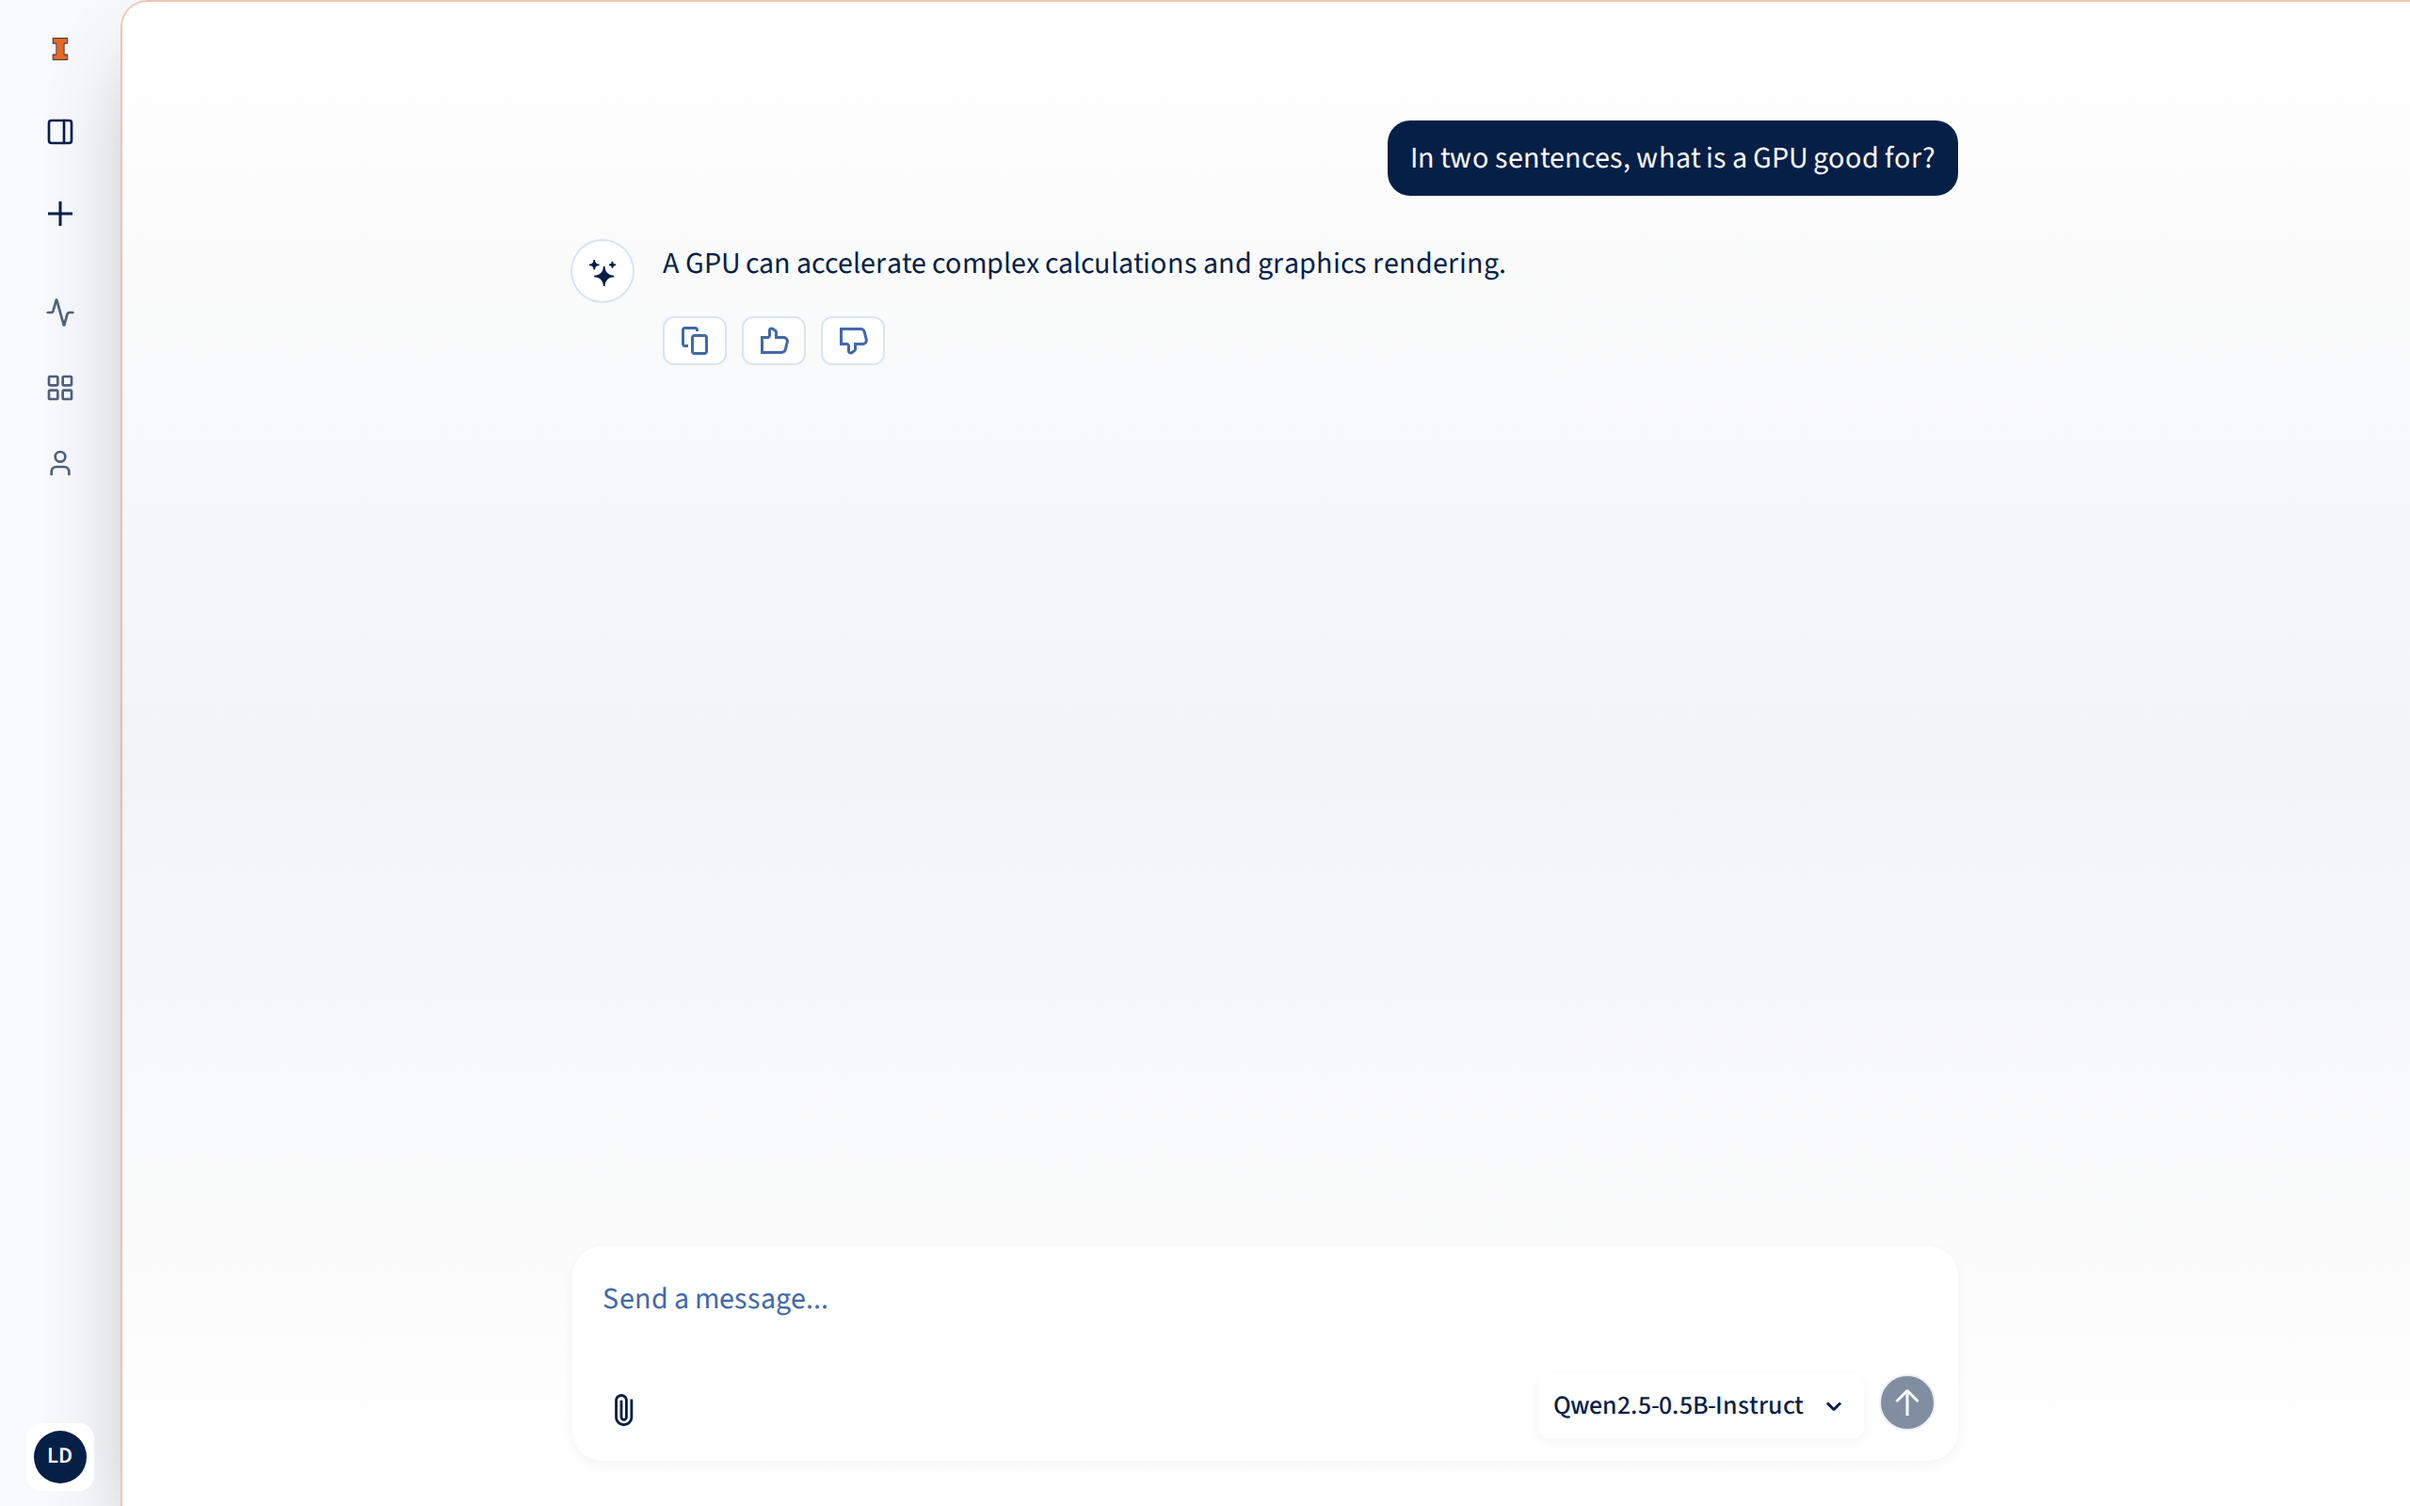
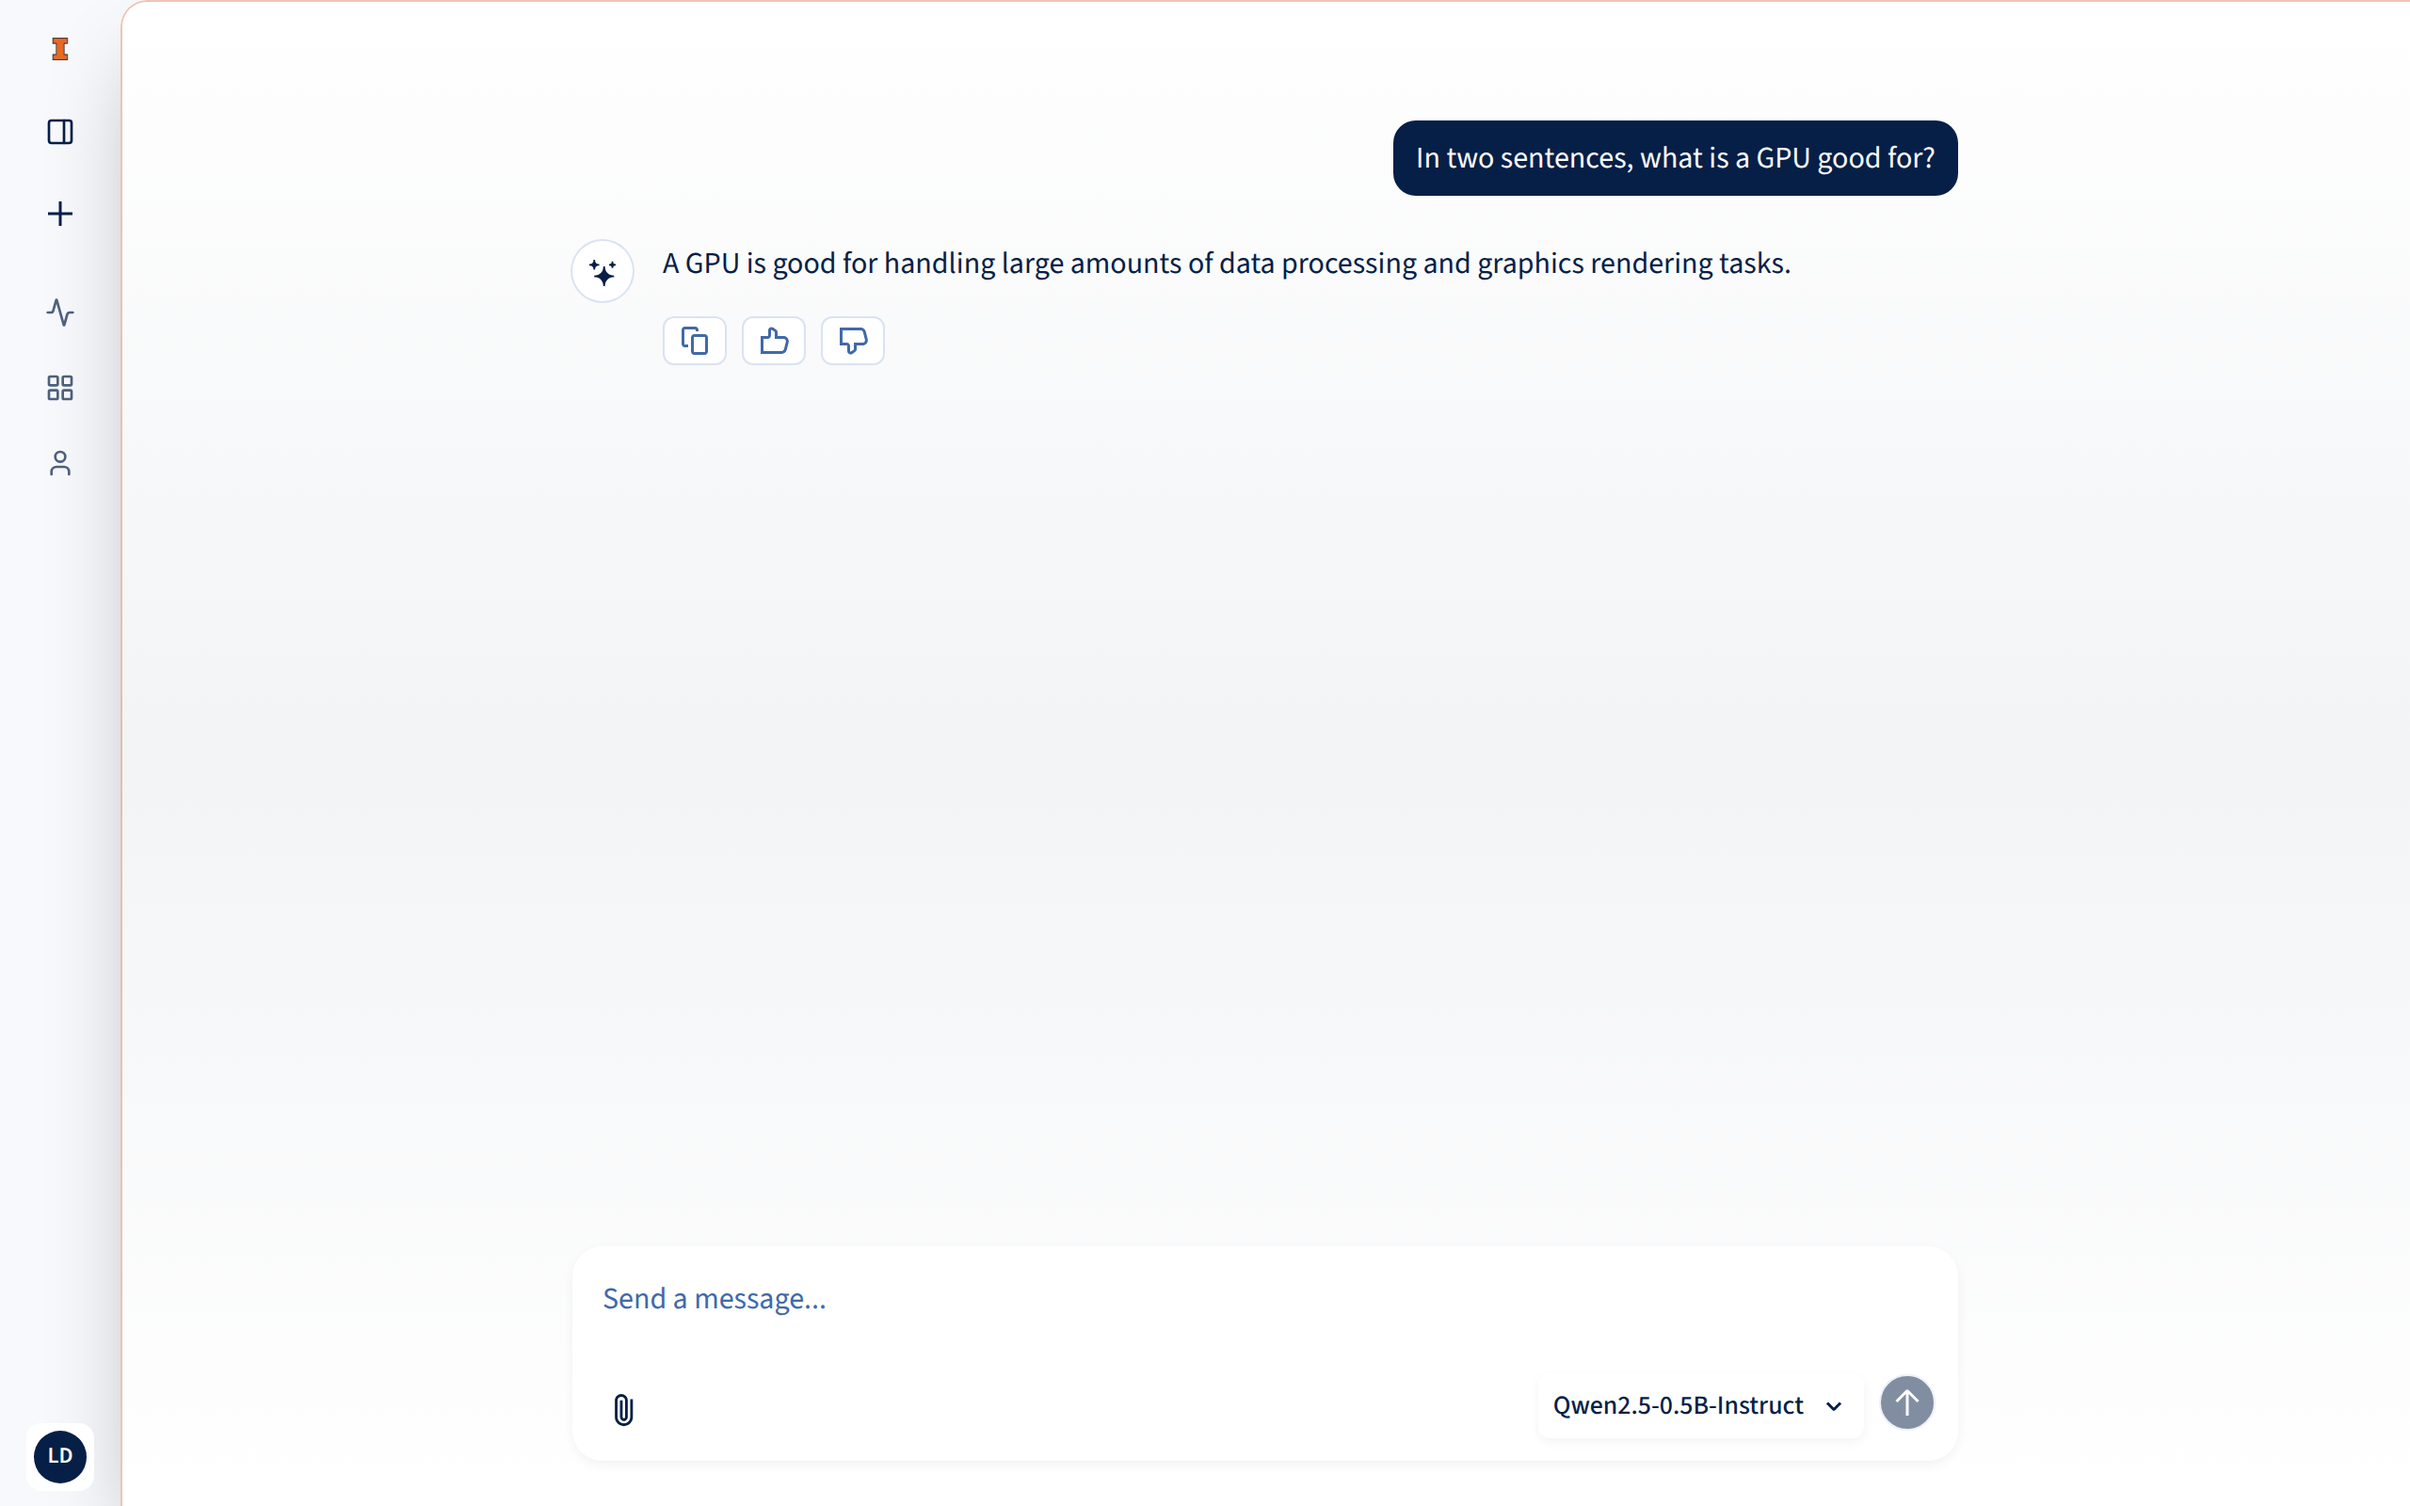
docs: retake Qwen screenshots with the Country of Concern notice (#136)
Model Library, running card and chat, taken on staging at main. Also
disables headless Chromium font hinting, which had distorted letter
spacing.

diff --git a/docs/getting-started/model-library.md b/docs/getting-started/model-library.md
@@ -5,7 +5,7 @@ land after signing in, and it's in the sidebar.
 
 <figure markdown="span">
   ![The Model Library](../assets/screenshots/model-library.png){ loading=lazy }
-  <figcaption>The Model Library, searched for <code>qwen2.5</code>.</figcaption>
+  <figcaption>The Model Library, searched for <code>qwen2.5</code>. Each Qwen card carries the <a href="#country-of-concern-notice">Country of Concern notice</a>.</figcaption>
 </figure>
 
 ## Reading a model card
